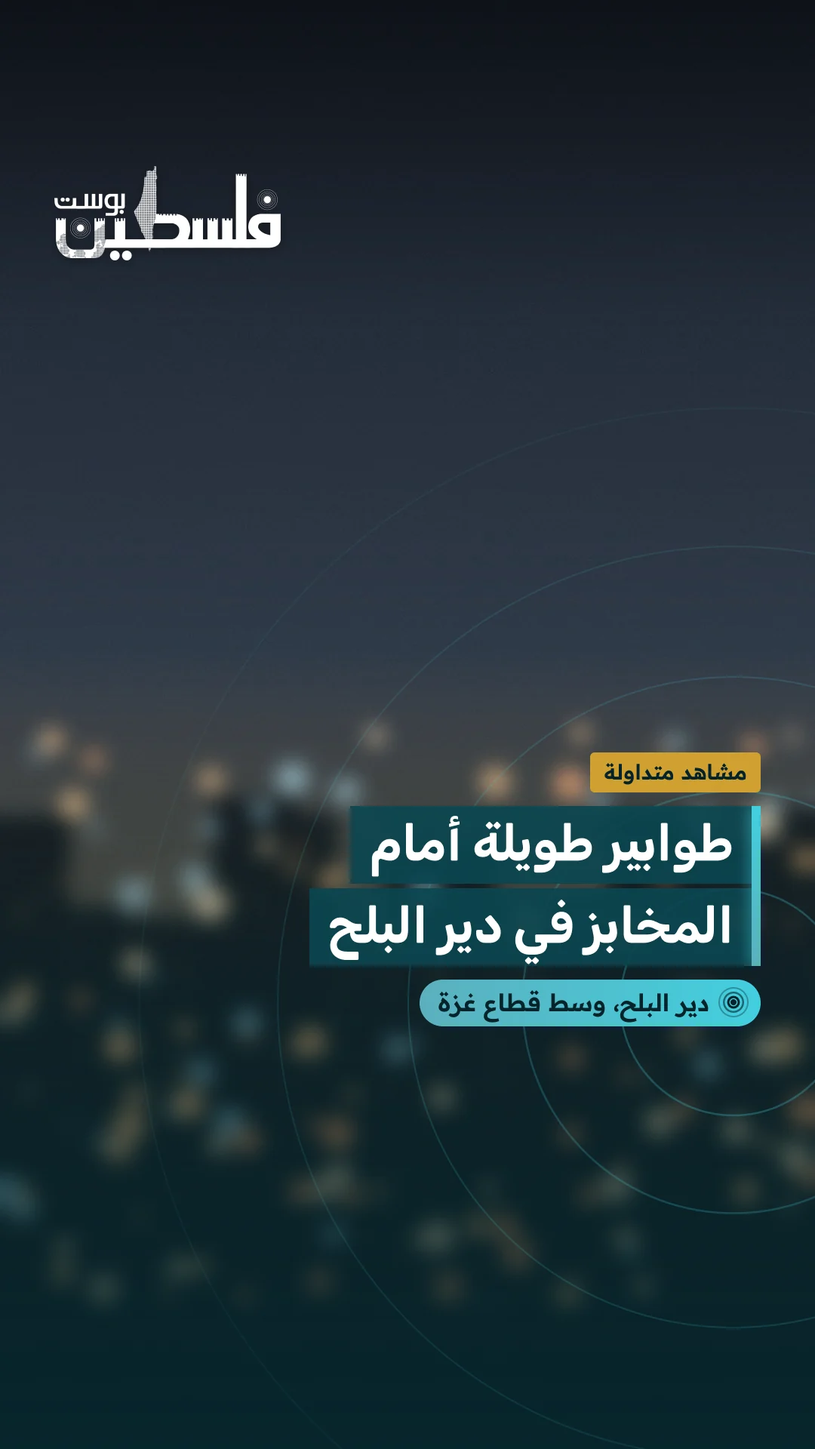
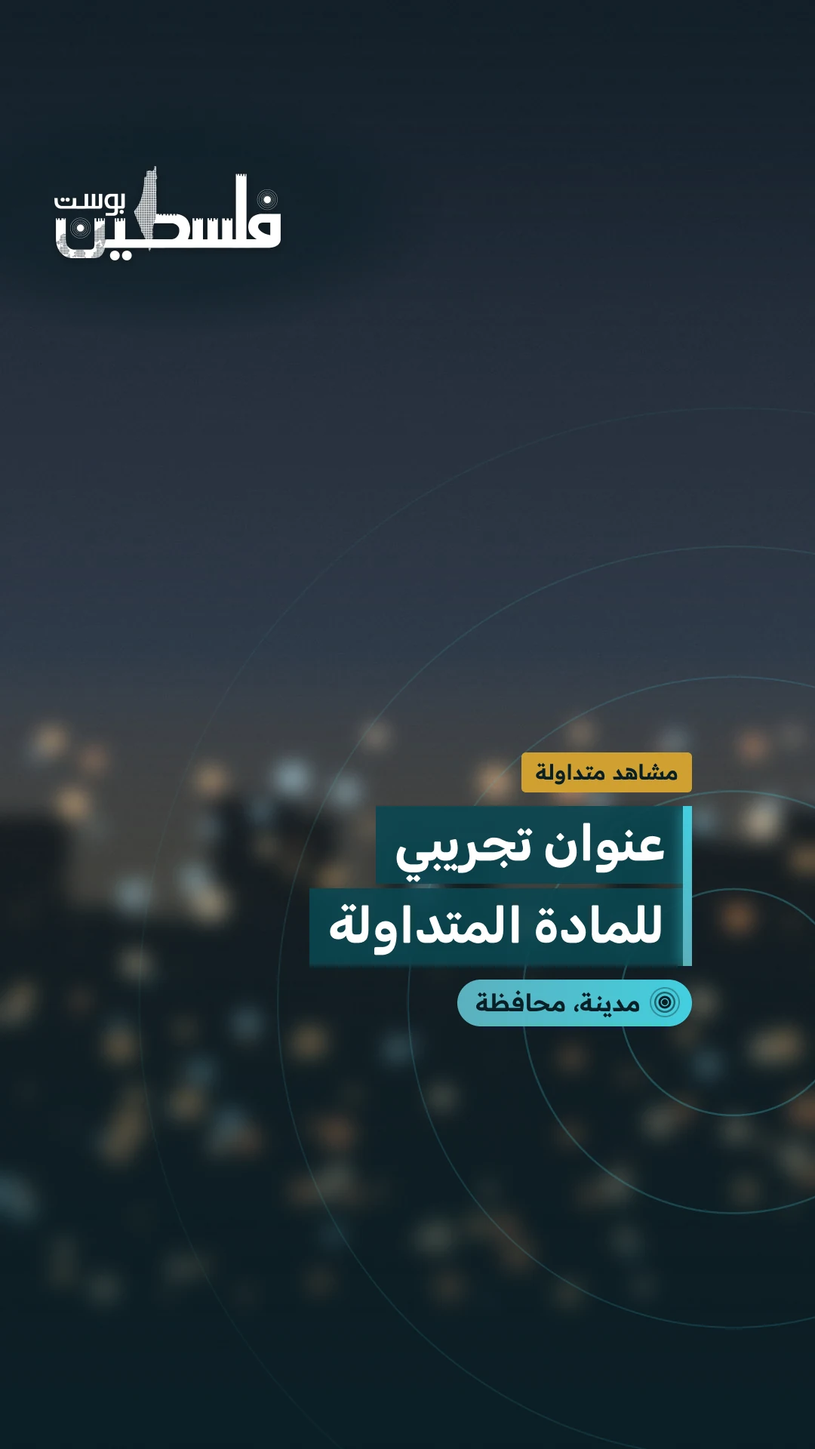
design: address #466 review on the circulated-video template
- Record the render measurement (H.264, ProRes overlay, FFmpeg
  composite: time, peak memory, pixel format, machine) in
  docs/measurements/render-bench, and cite it from the README.
- Logo halo from brand/950 at 55% behind the logo: white over it is
  at least 3:1 even over a white shot (measured 4.3 to 4.58).
- Every colour is a token: scrims, halo and ink are brand/950.
- Neutral sample text everywhere (frames, props, stills).
- Long title lines shrink to 80% and then wrap; per-line limits in the
  spec, with a Check-LongLine composition.
- reducedMotion stops the plate zoom; wave timing, input names, exact
  leak-check paths and out/ in .gitignore.

Claude-Session: https://claude.ai/code/session_01HY7py4Kwox1KypVxZuFGKP

Changed region(s): [[0.3972, 0.5, 0.9472, 0.7188]]

diff --git a/docs/design/redesign-2026-11/motion/circulated-template/src/CirculatedTemplate.tsx b/docs/design/redesign-2026-11/motion/circulated-template/src/CirculatedTemplate.tsx
@@ -10,6 +10,7 @@ import {
   useCurrentFrame,
   useVideoConfig,
 } from 'remotion';
+import { fitText } from '@remotion/layout-utils';
 import { TEXT_FONT, TITLE_FONT } from './fonts';
 
 export type Layout = 'vertical' | 'horizontal' | 'square';
@@ -25,21 +26,27 @@ export type CirculatedProps = {
   readonly durationInSeconds: number;
 };
 
-// الفيروزي المطوَّر (specs/video-template.md)
+// الفيروزي المطوَّر (specs/video-template.md). كل قيمة رمز من tokens.v2.json أو لون الشعار (ADR 0085)
 const C = {
-  signal: '#42CFDF',
-  logo: '#5CB0BE',
-  deep: 'rgba(10, 70, 80, 0.9)',
-  night: '6, 38, 45',
-  gold: '#D0A030',
-  ink: '#04232A',
+  signal: '#42CFDF', // color/brand/300
+  logo: '#5CB0BE', // لون الشعار
+  deep: 'rgba(10, 70, 80, 0.9)', // color/brand/800 بعتامة 90%
+  night: '10, 31, 38', // color/brand/950 للتدرّجين وهالة الشعار
+  gold: '#D0A030', // color/accent/gold/500
+  ink: '#0A1F26', // color/brand/950 للنص فوق الفيروزي والذهبي
 };
+
+// عتامة هالة الشعار: الأبيض فوق brand/950 بعتامة 55% فوق خلفية بيضاء = 3.86:1 (عنصر غير نصّي، الحدّ 3:1)
+const LOGO_PLATE_ALPHA = 0.55;
+// السطر يصغر حتى 80% من حجمه قبل أن يلتفّ
+const MIN_TITLE_SCALE = 0.8;
 
 // المقاسات كما في إطارات Figma VT-01 وVT-04 وVT-05
 const L = {
-  vertical: { m: 72, logoW: 300, logoTop: 220, bottom: 560, title: 66, tag: 28, loc: 32, plate: 'plates/plate-9x16.jpg' },
-  horizontal: { m: 96, logoW: 300, logoTop: 72, bottom: 110, title: 64, tag: 28, loc: 32, plate: 'plates/plate-16x9.jpg' },
-  square: { m: 64, logoW: 260, logoTop: 64, bottom: 96, title: 58, tag: 26, loc: 30, plate: 'plates/plate-1x1.jpg' },
+  // block: أقصى عرض للكتلة السفلية من عرض الإطار؛ الأفقي يبقى شريطًا سفليًا في جهة البداية لا يمتدّ على العرض كله
+  vertical: { m: 72, logoW: 300, logoTop: 220, bottom: 560, title: 66, tag: 28, loc: 32, block: 1, plate: 'plates/plate-9x16.jpg' },
+  horizontal: { m: 96, logoW: 300, logoTop: 72, bottom: 110, title: 64, tag: 28, loc: 32, block: 0.55, plate: 'plates/plate-16x9.jpg' },
+  square: { m: 64, logoW: 260, logoTop: 64, bottom: 96, title: 58, tag: 26, loc: 30, block: 1, plate: 'plates/plate-1x1.jpg' },
 } as const;
 
 const EASE_IN = Easing.bezier(0.16, 1, 0.3, 1);
@@ -161,10 +168,25 @@ export const CirculatedTemplate: React.FC<CirculatedProps> = ({
   const pillH = s.loc * 0.69 + ring;
   const cx = W - s.m - s.loc * 0.5 - ring / 2;
   const cy = H - s.bottom - pillH / 2;
-  const kenBurns = interpolate(frame, [0, durationInFrames], [1, 1.06]);
+  // تكبير بطيء للصورة التجريبية، ويتوقف في وضع تقليل الحركة
+  const kenBurns = rm ? 1 : interpolate(frame, [0, durationInFrames], [1, 1.06]);
+
+  // عرض السطر الأقصى: الإطار ناقص الهامشين والعمود وحشوة اللوح
+  const padX = Math.round(s.title * 0.36);
+  const accentW = Math.max(8, Math.round(s.title * 0.18));
+  const maxLineW = Math.min(W - 2 * s.m, Math.round(W * s.block)) - accentW - 2 * padX;
+  const lineSize = (line: string) => {
+    const fit = fitText({ text: line, withinWidth: maxLineW, fontFamily: TITLE_FONT, fontWeight: 700 }).fontSize;
+    return Math.max(Math.round(s.title * MIN_TITLE_SCALE), Math.min(s.title, Math.floor(fit)));
+  };
+
+  // هالة الشعار: قطع ناقص يغطّي صندوق الشعار بعتامة ثابتة ثم يتلاشى
+  const logoH = s.logoW * (125 / 300);
+  const plateRx = Math.round((s.logoW / 2) * 1.414 / 0.6) + 20;
+  const plateRy = Math.round((logoH / 2) * 1.414 / 0.6) + 20;
 
   return (
-    <AbsoluteFill style={{ backgroundColor: background === 'none' ? 'transparent' : '#06090d' }}>
+    <AbsoluteFill style={{ backgroundColor: background === 'none' ? 'transparent' : `rgb(${C.night})` }}>
       {background === 'plate' ? (
         <AbsoluteFill style={{ overflow: 'hidden' }}>
           <Img src={staticFile(s.plate)} style={{ width: '100%', height: '100%', objectFit: 'cover', scale: String(kenBurns) }} />
@@ -175,9 +197,17 @@ export const CirculatedTemplate: React.FC<CirculatedProps> = ({
       <AbsoluteFill
         style={{
           opacity: scrim * (1 - xScrim),
-          background: `linear-gradient(to bottom, rgba(0,0,0,0.45) 0%, rgba(0,0,0,0) ${Math.round(H * 0.22)}px, rgba(0,0,0,0) ${Math.round(
+          background: `linear-gradient(to bottom, rgba(${C.night},0.45) 0%, rgba(${C.night},0) ${Math.round(H * 0.22)}px, rgba(0,0,0,0) ${Math.round(
             H * 0.48,
           )}px, rgba(${C.night},0.55) ${Math.round(H * 0.69)}px, rgba(${C.night},0.94) 100%)`,
+        }}
+      />
+
+      {/* 1أ · هالة الشعار: تضمن قراءته فوق أي لقطة، حتى البيضاء */}
+      <AbsoluteFill
+        style={{
+          opacity: logo * (1 - xLogo),
+          background: `radial-gradient(ellipse ${plateRx}px ${plateRy}px at ${s.m + s.logoW / 2}px ${s.logoTop + logoH / 2}px, rgba(${C.night},${LOGO_PLATE_ALPHA}) 0%, rgba(${C.night},${LOGO_PLATE_ALPHA}) 60%, rgba(${C.night},0) 100%)`,
         }}
       />
 
@@ -240,7 +270,7 @@ export const CirculatedTemplate: React.FC<CirculatedProps> = ({
         <div style={{ display: 'flex', flexDirection: 'row', alignItems: 'stretch' }}>
           <div
             style={{
-              width: Math.max(8, Math.round(s.title * 0.18)),
+              width: accentW,
               background: `linear-gradient(to bottom, ${C.signal}, ${C.logo})`,
               boxShadow: `0 0 22px rgba(66,207,223,${0.7 * accent})`,
               transformOrigin: 'center bottom',
@@ -252,12 +282,14 @@ export const CirculatedTemplate: React.FC<CirculatedProps> = ({
             {lines.map((line, i) => {
               const box = lineIn(i);
               const txt = textIn(i);
+              const size = lineSize(line);
               return (
                 <div
                   key={i}
                   style={{
                     background: C.deep,
-                    padding: `${Math.round(s.title * 0.15)}px ${Math.round(s.title * 0.36)}px ${Math.round(s.title * 0.21)}px`,
+                    padding: `${Math.round(s.title * 0.15)}px ${padX}px ${Math.round(s.title * 0.21)}px`,
+                    maxWidth: maxLineW + 2 * padX,
                     // المسح من اليمين (جهة القراءة) إلى اليسار
                     clipPath: rm ? undefined : `inset(0 0 0 ${(1 - box) * 100}%)`,
                     opacity: (rm ? box : 1) * (1 - xLines),
@@ -268,10 +300,12 @@ export const CirculatedTemplate: React.FC<CirculatedProps> = ({
                     style={{
                       fontFamily: TITLE_FONT,
                       fontWeight: 700,
-                      fontSize: s.title,
+                      fontSize: size,
                       lineHeight: 1.2,
                       color: '#FFFFFF',
-                      whiteSpace: 'nowrap',
+                      // بعد أدنى حجم يلتفّ السطر داخل لوحه بدل أن يُقصّ عند الحافة
+                      whiteSpace: 'normal',
+                      textWrap: 'balance',
                       opacity: txt,
                       translate: rm ? undefined : `${(1 - txt) * 28}px 0px`,
                     }}

diff --git a/docs/design/redesign-2026-11/motion/circulated-template/src/Root.tsx b/docs/design/redesign-2026-11/motion/circulated-template/src/Root.tsx
@@ -4,6 +4,7 @@ import { CirculatedProps, CirculatedTemplate } from './CirculatedTemplate';
 
 const FPS = 30;
 
+// العيّنات نصّ تجريبي ظاهر، لا عناوين أخبار ولا أماكن حقيقية: لقطة منها قد تُتداول خارج المستودع
 // مدة الفيديو من المعامل `durationInSeconds`، فيُضبط القالب على طول المقطع المتداول
 const metadata: CalculateMetadataFunction<CirculatedProps> = ({ props }) => ({
   durationInFrames: Math.max(3 * FPS, Math.round(props.durationInSeconds * FPS)),
@@ -21,8 +22,8 @@ export const Root: React.FC = () => (
         durationInFrames={240}
         calculateMetadata={metadata}
         defaultProps={{
-          titleLines: ['طوابير طويلة أمام', 'المخابز في دير البلح'],
-          location: 'دير البلح، وسط قطاع غزة',
+          titleLines: ['عنوان تجريبي', 'للمادة المتداولة'],
+          location: 'مدينة، محافظة',
           tag: 'مشاهد متداولة',
           layout: 'vertical',
           background: 'plate',
@@ -39,8 +40,8 @@ export const Root: React.FC = () => (
         durationInFrames={240}
         calculateMetadata={metadata}
         defaultProps={{
-          titleLines: ['أهالٍ ينتشلون مصابين', 'من تحت ركام منزل', 'في مخيم جباليا'],
-          location: 'جباليا، شمال قطاع غزة',
+          titleLines: ['عنوان تجريبي', 'من ثلاثة أسطر', 'للمادة المتداولة'],
+          location: 'مدينة، محافظة',
           tag: 'مشاهد متداولة',
           layout: 'vertical',
           background: 'plate',
@@ -57,8 +58,8 @@ export const Root: React.FC = () => (
         durationInFrames={240}
         calculateMetadata={metadata}
         defaultProps={{
-          titleLines: ['طوابير طويلة أمام', 'المخابز في دير البلح'],
-          location: 'دير البلح، وسط قطاع غزة',
+          titleLines: ['عنوان تجريبي', 'للمادة المتداولة'],
+          location: 'مدينة، محافظة',
           tag: 'مشاهد متداولة',
           layout: 'horizontal',
           background: 'plate',
@@ -75,10 +76,31 @@ export const Root: React.FC = () => (
         durationInFrames={240}
         calculateMetadata={metadata}
         defaultProps={{
-          titleLines: ['طوابير طويلة أمام', 'المخابز في دير البلح'],
-          location: 'دير البلح، وسط قطاع غزة',
+          titleLines: ['عنوان تجريبي', 'للمادة المتداولة'],
+          location: 'مدينة، محافظة',
           tag: 'مشاهد متداولة',
           layout: 'square',
+          background: 'plate',
+          reducedMotion: false,
+          durationInSeconds: 8,
+        }}
+      />
+    </Folder>
+    <Folder name="Checks">
+      {/* سطر طويل (36 حرفًا): يصغر حتى 80% ثم يلتفّ داخل لوحه، ولا يُقصّ عند الحافة */}
+      <Composition
+        id="Check-LongLine"
+        component={CirculatedTemplate}
+        fps={FPS}
+        width={1080}
+        height={1920}
+        durationInFrames={240}
+        calculateMetadata={metadata}
+        defaultProps={{
+          titleLines: ['عنوان تجريبي طويل جدًا يتجاوز حدّ السطر', 'سطر ثانٍ قصير'],
+          location: 'مدينة، محافظة',
+          tag: 'مشاهد متداولة',
+          layout: 'vertical',
           background: 'plate',
           reducedMotion: false,
           durationInSeconds: 8,
@@ -96,8 +118,8 @@ export const Root: React.FC = () => (
         durationInFrames={240}
         calculateMetadata={metadata}
         defaultProps={{
-          titleLines: ['طوابير طويلة أمام', 'المخابز في دير البلح'],
-          location: 'دير البلح، وسط قطاع غزة',
+          titleLines: ['عنوان تجريبي', 'للمادة المتداولة'],
+          location: 'مدينة، محافظة',
           tag: 'مشاهد متداولة',
           layout: 'vertical',
           background: 'none',

diff --git a/docs/design/specs/video-template.md b/docs/design/specs/video-template.md
@@ -2,19 +2,19 @@
 
 **المرجع:** ملف Figma «Visual Library — Design System»، صفحة `Video Template · مواد متداولة` (الرابط في `design-system-v2.md`). اللقطات في `docs/design/redesign-2026-11/screens/video/`. طلب المالك 2026-11-02: قالب للفيديوهات المتداولة فيه **عنوان الفيديو، وشعار فلسطين بوست، ومكان الحدث**، يُحرَّك في مرحلة تالية.
 
-القالب طبقة فوق الفيديو، لا يغيّر الفيديو نفسه. والخلفيات في الإطارات اصطناعية يرسمها `redesign-2026-11/tools/make-plates.py` من الصفر، لا صور ولا مواد حقيقية.
+القالب طبقة فوق الفيديو، لا يغيّر الفيديو نفسه. والخلفيات في الإطارات اصطناعية يرسمها `redesign-2026-11/tools/make-plates.py` من الصفر، لا صور ولا مواد حقيقية. والنصوص في الإطارات والمعاينات نصّ تجريبي ظاهر («عنوان تجريبي للمادة المتداولة»، «مدينة، محافظة»)، لا عناوين أخبار ولا أماكن حقيقية: لقطة منها تحت الشعار ووسم «مشاهد متداولة» قد تُتداول خبرًا.
 
 ## العناصر
 
 | # | الطبقة (اسمها في Figma) | ما هي | القاعدة |
 |---|---|---|---|
-| 1 | `Logo/Bug` | شعار فلسطين بوست الأبيض (`brand/palpost-logo-white.png`) | الزاوية العليا اليسرى، خارج شريط المنصّة، وظلّ خفيف يكفي لقراءته فوق أي لقطة. لا يُعاد تلوينه ولا يُشوَّه |
+| 1 | `Logo/Bug` + `Logo/Halo` | شعار فلسطين بوست الأبيض (`brand/palpost-logo-white.png`) | الزاوية العليا اليسرى، خارج شريط المنصّة. خلفه هالة بيضاوية من `brand/950` بعتامة 55% تغطّي صندوقه ثم تتلاشى، فالأبيض فوقها 3:1 على الأقل حتى فوق لقطة بيضاء (عنصر غير نصّي، WCAG 1.4.11). المقيس: 4.3:1 في العمودي والأفقي، و4.58:1 في المربّع، عند أضعف نقطة خلف صندوق الشعار. لا يُعاد تلوينه ولا يُشوَّه |
 | 2 | `Tag` | «مشاهد متداولة» | بالذهبي وحده (التأكيد النادر في الهوية). يقول للمشاهد إن الفيديو ليس من تصوير الشبكة؛ لا يُحذف من مادة متداولة |
-| 3 | `Title / Lines / Line 1…3` | عنوان الفيديو | لوح فيروزي عميق لكل سطر، بخط Rubik Bold. ثلاثة أسطر حدًّا، ونحو 22 حرفًا للسطر، والقسمة على معنى الجملة لا على العرض. العنوان كتبه التحرير، ولا اسم مصدر فيه |
+| 3 | `Title / Lines / Line 1…3` | عنوان الفيديو | لوح فيروزي عميق لكل سطر، بخط Rubik Bold. ثلاثة أسطر حدًّا، و22 حرفًا للسطر حدًّا تحريريًا، والقسمة على معنى الجملة لا على العرض. ما زاد يصغر ثم يلتفّ (أدناه). العنوان كتبه التحرير، ولا اسم مصدر فيه |
 | 4 | `Accent` | عمود الإشارة في جهة البداية (اليمين) | تدرّج من فيروزي الشعار إلى المضيء، بتوهّج. طوله طول الأسطر |
-| 5 | `Location` + `Rings` | مكان الحدث | كبسولة متدرّجة، والنص بالحبر. دوائر البثّ من الشعار علامتها. **المكان المدينة والمحافظة وحدهما** («دير البلح، وسط قطاع غزة»)، ولا إحداثيات ولا تفصيل أدقّ (`CLAUDE.md` §5) |
+| 5 | `Location` + `Rings` | مكان الحدث | كبسولة متدرّجة، والنص بالحبر. دوائر البثّ من الشعار علامتها. **المكان المدينة والمحافظة وحدهما** («مدينة، محافظة»)، ولا إحداثيات ولا تفصيل أدقّ (`CLAUDE.md` §5) |
 | 6 | `Broadcast field` | موجات تتّسع من موضع المكان | خافتة خلف العنوان (شفافية 5–28%)، لا تنافس النص |
-| 7 | `Scrim/Top` و`Scrim/Bottom` | تدرّجان | يضمنان قراءة الشعار والنص فوق أي لقطة؛ السفلي بالفيروزي الليلي لا بالأسود |
+| 7 | `Scrim/Top` و`Scrim/Bottom` | تدرّجان | من `brand/950` لا من الأسود. يعينان على قراءة النص، والنص نفسه على ألواح معتمة، والشعار تحميه هالته |
 
 ## الفيروزي المطوَّر
 
@@ -25,13 +25,12 @@
 | Signal | `#42CFDF` | `color/brand/300` | العمود والكبسولة والموجات: المضيء الذي يقرأ فوق اللقطات الداكنة |
 | Logo | `#5CB0BE` | لون الشعار (ADR 0085) | طرف التدرّج |
 | Deep | `#0A4650` | `color/brand/800` | ألواح العنوان بعتامة 90% |
-| Night | `#06262D` | بين `brand/900` و`brand/950` | التدرّج السفلي |
+| Night | `#0A1F26` | `color/brand/950` | التدرّجان، وهالة الشعار، والنص فوق الفيروزي والذهبي، وخلفية المعاينة |
 | Gold | `#D0A030` | `color/accent/gold/500` | وسم «مشاهد متداولة» وحده |
-| Ink | `#04232A` | قريب من `brand/950` | النص فوق الفيروزي والذهبي |
 
 **تدرّج الإشارة:** `#5CB0BE` إلى `#42CFDF`، من النهاية إلى البداية، فيتّجه الضوء نحو جهة القراءة.
 
-التباين، محسوبًا من القيم أعلاه: الأبيض على Deep 10.5:1. والحبر على Signal 8.8:1، وعلى فيروزي الشعار (طرف التدرّج) 6.6:1، وعلى Gold 6.8:1. كلها فوق 4.5:1، ولوح العنوان بعتامة 90% فلا ينزل تباينه عن ذلك كثيرًا فوق اللقطات الفاتحة.
+كل لون رمز من `tokens.v2.json` أو لون الشعار، ولا قيمة خارجها. التباين، محسوبًا من القيم أعلاه: الأبيض على Deep 10.5:1، وعلى Deep بعتامة 90% فوق الأبيض 7.9:1 (أسوأ حالات اللوح). و`brand/950` على Signal 9.1:1، وعلى فيروزي الشعار (طرف التدرّج) 6.8:1، وعلى Gold 7.1:1. كلها فوق 4.5:1.
 
 ## المقاسات
 
@@ -45,6 +44,22 @@
 - `VT-02` و`VT-03` يثبتان سلوك العنوان من سطر واحد ومن ثلاثة أسطر. الكتلة ترتكز على أسفلها، فتنمو إلى الأعلى.
 - **مناطق الأمان في العمودي** (`VT-06`): لا شيء في أعلى 200 بكسل (شريط المنصّة) ولا في أسفل 560 (الوصف والأزرار)، وهامش 72 على الجانبين. أسفل كتلة العنوان عند 1360.
 - العنوان والوسم والمكان في جهة البداية (اليمين)، والشعار في الزاوية المقابلة، فلا يتزاحمان.
+
+### طول السطر
+
+الحدّ التحريري 22 حرفًا للسطر، وعليه يعمل عدّاد الواجهة (ADR 0091). وما زاد لا يُقصّ عند الحافة:
+
+1. يبقى بالحجم الكامل ما دام يسع العرض الأقصى للسطر (عرض الإطار ناقص الهامشين والعمود وحشوة اللوح، وفي الأفقي 55% من العرض).
+2. ثم يصغر حتى 80% من حجمه.
+3. ثم يلتفّ داخل لوحه.
+
+| الإطار | بالحجم الكامل | حتى 80% | بعدها |
+|---|---|---|---|
+| عمودي | نحو 30 حرفًا | نحو 37 | يلتفّ |
+| أفقي | نحو 36 | نحو 44 | يلتفّ |
+| مربّع | نحو 36 | نحو 44 | يلتفّ |
+
+الأعداد مقيسة بخط Rubik Bold على عيّنة عربية، وتختلف قليلًا بعرض الحروف. التركيبة `Check-LongLine` في مشروع التحريك تثبت السلوك بسطر من 39 حرفًا.
 
 ## التحريك
 
@@ -61,16 +76,21 @@
 | `Line 2` (و3) | 0.75 | 1.25 | كالأول، بتأخير 150ms لكل سطر |
 | `Tag` | 1.0 | 1.3 | نبضة من 0.9 إلى 1 |
 | `Location` | 1.2 | 1.6 | انزلاق من اليمين، ونبض الدوائر |
-| `Broadcast field` | 1.2 | تكرار | موجة تتّسع كل 2.4 ثانية |
+| `Broadcast field` | 1.2 | تكرار | موجة تنطلق كل 0.6 ثانية، وتعيش كلٌّ منها 2.4 ثانية |
 
-مع `reducedMotion`: تلاشٍ وحده، بلا انزلاق ولا مسح ولا موجات.
+مع `reducedMotion`: تلاشٍ وحده، بلا انزلاق ولا مسح ولا موجات، ولا تكبير للصورة التجريبية.
 
 ## مدخلات القالب
 
-- `title`: سطر إلى ثلاثة أسطر، يقسمها المحرّر.
+الأسماء كما في الشيفرة (`CirculatedProps`):
+
+- `titleLines`: سطر إلى ثلاثة أسطر، يقسمها المحرّر.
 - `location`: المدينة والمحافظة.
-- `ratio`: `9:16` أو `16:9` أو `1:1`.
+- `layout`: `vertical` (9:16) أو `horizontal` (16:9) أو `square` (1:1).
 - `tag`: «مشاهد متداولة» افتراضيًا.
+- `background`: `plate` للمعاينة، أو `none` لطبقة شفافة تُركَّب فوق المقطع.
+- `reducedMotion`: تلاشٍ وحده.
+- `durationInSeconds`: طول المقطع، والخروج في آخر 0.6 ثانية.
 
 لا اسم مراسل ولا مصدر ولا إحداثيات في أي مدخل.
 

diff --git a/docs/design/redesign-2026-11/motion/circulated-template/README.md b/docs/design/redesign-2026-11/motion/circulated-template/README.md
@@ -20,17 +20,20 @@ npm run typecheck
 | `Circulated-Horizontal` | 1920×1080 | صورة تجريبية |
 | `Circulated-Square` | 1080×1080 | صورة تجريبية |
 | `Overlay-Vertical` | 1080×1920 | شفافة، تُركَّب فوق المقطع |
+| `Check-LongLine` | 1080×1920 | صورة تجريبية؛ سطر من 39 حرفًا يصغر ثم يلتفّ |
+
+النصوص في كل التركيبات نصّ تجريبي ظاهر («عنوان تجريبي للمادة المتداولة»، «مدينة، محافظة»)، لا عناوين أخبار ولا أماكن حقيقية.
 
 ## المعاملات
 
 | المعامل | النوع | القاعدة |
 |---|---|---|
-| `titleLines` | `string[]` | سطر إلى ثلاثة؛ ما زاد يُهمل. يقسمها المحرّر على معنى الجملة |
+| `titleLines` | `string[]` | سطر إلى ثلاثة؛ ما زاد يُهمل. يقسمها المحرّر على معنى الجملة. السطر الأطول من عرضه يصغر حتى 80% ثم يلتفّ (`fitText` من `@remotion/layout-utils`) |
 | `location` | `string` | المدينة والمحافظة وحدهما، بلا إحداثيات |
 | `tag` | `string` | «مشاهد متداولة» افتراضيًا |
 | `layout` | `vertical` · `horizontal` · `square` | المقاسات من إطارات Figma |
 | `background` | `plate` · `none` | `none` لطبقة شفافة |
-| `reducedMotion` | `boolean` | تلاشٍ وحده، بلا انزلاق ولا مسح ولا موجات |
+| `reducedMotion` | `boolean` | تلاشٍ وحده، بلا انزلاق ولا مسح ولا موجات ولا تكبير للصورة |
 | `durationInSeconds` | `number` | طول المقطع المتداول؛ الخروج في آخر 0.6 ث |
 
 ## التصدير
@@ -54,7 +57,13 @@ ffmpeg -i clip.mp4 -i out/overlay.mov \
   -filter_complex "[0:v][1:v]overlay=format=auto,format=yuv420p" -c:a copy out/final.mp4
 ```
 
-قيس على هذه الحاوية: 240 إطارًا (8 ث) عمودية بـ H.264 في نحو 22 ثانية، والطبقة الشفافة خرجت `yuva444p12le` وتركّبت فوق صورة ثابتة بلا حواف.
+القياس في `docs/measurements/render-bench/2026-11-02-circulated-template.json`: 240 إطارًا (8 ثوانٍ) على 4 أنوية:
+
+- المعاينة بـ H.264 في 26.2 ثانية، وذروة الذاكرة 1.7 غيغابايت.
+- الطبقة الشفافة في 40.7 ثانية، وخرجت `yuva444p12le` (يُكتب ProRes 4444 بعمق 12 بت ولو طُلب 10). حجمها نحو 58 ميغابايت للثانية.
+- التركيب بـ FFmpeg في 11.4 ثانية.
+
+ومعه تباين الشعار فوق الأبيض.
 
 ## ما في `public/`
 
@@ -66,4 +75,4 @@ ffmpeg -i clip.mp4 -i out/overlay.mov \
 python3 docs/design/redesign-2026-11/tools/make-plates.py docs/design/redesign-2026-11/motion/circulated-template/public/plates
 ```
 
-ومخرجات التصدير (`*.mp4` و`*.mov`) خارج المستودع (`.gitignore`).
+ومخرجات التصدير والصور الثابتة في `out/`، وهو خارج المستودع (`.gitignore`).
